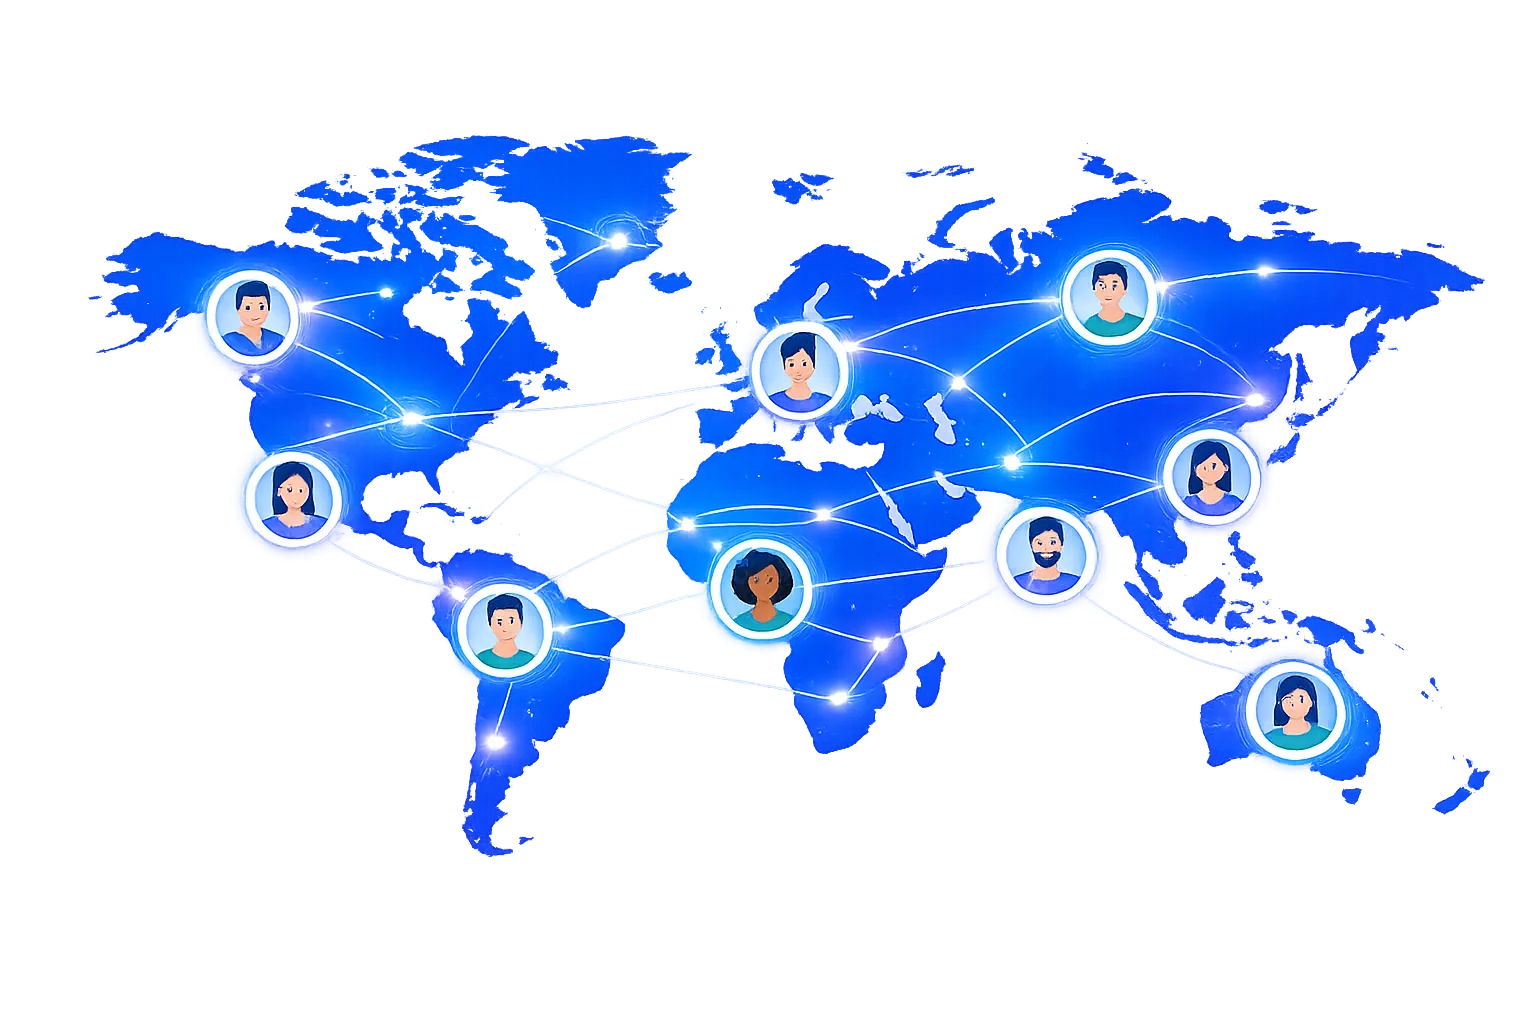
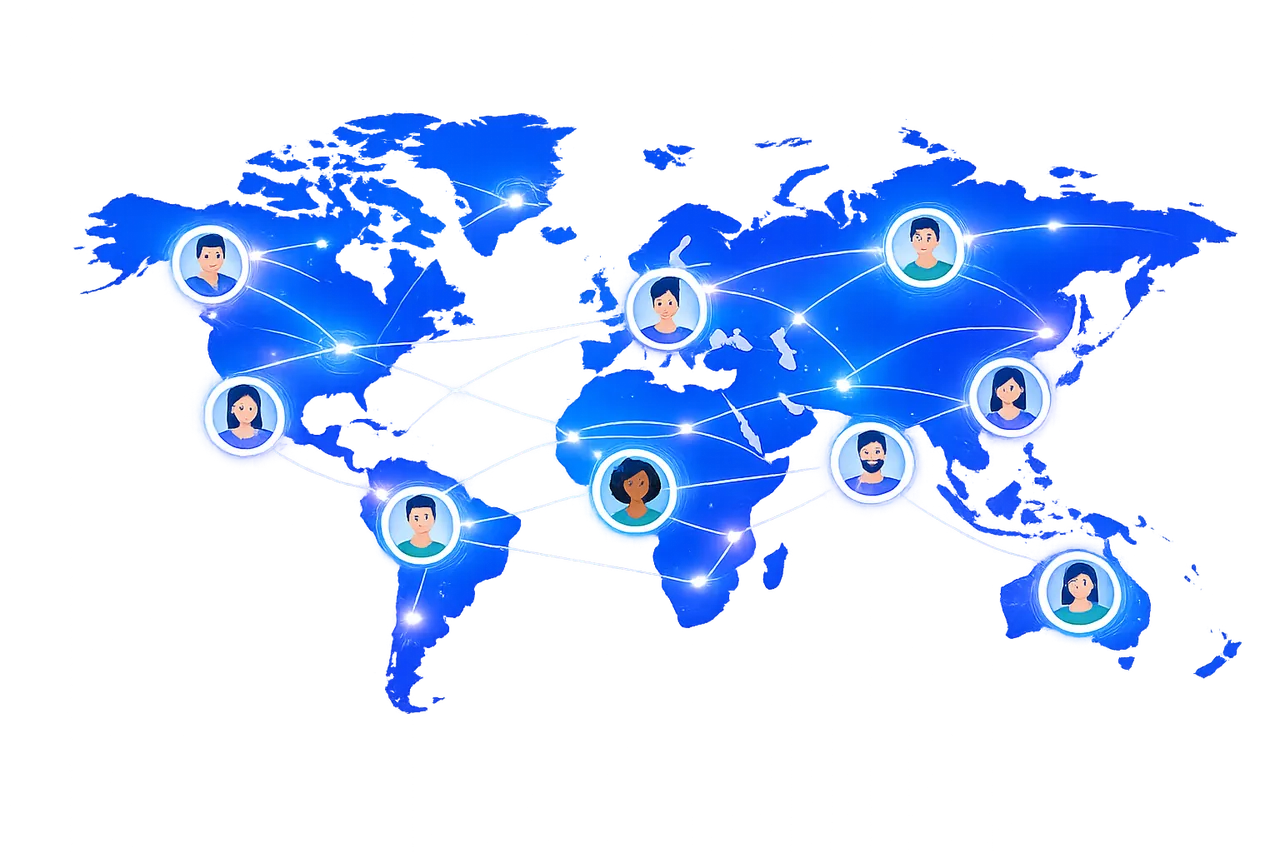
Thank-you: drop nav subtitle; re-optimize funnel WebP (1280w, RGBA) and image hints
- Remove thank-you subtitle; tighten next/image sizes + quality=82.
- Re-encode map/AI WebPs at max 1280px with alpha; refresh ladder/struggle WebPs.

Made-with: Cursor

diff --git a/src/components/FunnelArt.tsx b/src/components/FunnelArt.tsx
@@ -2,21 +2,21 @@
 
 import Image from "next/image";
 
-/** Matches `public/worldmap_sumaryOLA.webp` (1536×1024). */
-const MAP_W = 1536;
-const MAP_H = 1024;
+/** Matches `public/worldmap_sumaryOLA.webp` (max 1280px wide, RGBA). */
+const MAP_W = 1280;
+const MAP_H = 853;
 
 /** `public/ladder-summary2.webp` */
 const LADDER_W = 1280;
 const LADDER_H = 853;
 
-/** `public/ai_coach_summary.webp` */
-const AI_COACH_SUMMARY_W = 1536;
-const AI_COACH_SUMMARY_H = 1024;
+/** `public/ai_coach_summary.webp` (max 1280px wide, RGBA). */
+const AI_COACH_SUMMARY_W = 1280;
+const AI_COACH_SUMMARY_H = 853;
 
-/** `public/ai_coach_vs_traditional1.webp` */
-const AI_COACH_VS_TRADITIONAL_W = 1536;
-const AI_COACH_VS_TRADITIONAL_H = 1024;
+/** `public/ai_coach_vs_traditional1.webp` (max 1280px wide, RGBA). */
+const AI_COACH_VS_TRADITIONAL_W = 1280;
+const AI_COACH_VS_TRADITIONAL_H = 853;
 
 /** `public/struggle-summary3.webp` (portrait) */
 const STRUGGLE_SUMMARY_W = 853;
@@ -35,8 +35,9 @@ export function WorldMapIllustration() {
         width={MAP_W}
         height={MAP_H}
         className="h-auto w-full rounded-2xl"
-        sizes="(max-width: 640px) 100vw, 672px"
+        sizes="(max-width: 640px) 100vw, (max-width: 1280px) 90vw, 672px"
         priority
+        quality={82}
       />
     </div>
   );
@@ -55,7 +56,8 @@ export function LadderIllustration() {
         width={LADDER_W}
         height={LADDER_H}
         className="h-auto w-full rounded-2xl"
-        sizes="(max-width: 640px) 100vw, 672px"
+        sizes="(max-width: 640px) 100vw, (max-width: 1280px) 90vw, 672px"
+        quality={82}
       />
     </div>
   );
@@ -74,7 +76,8 @@ export function AiCoachSummaryIllustration() {
         width={AI_COACH_SUMMARY_W}
         height={AI_COACH_SUMMARY_H}
         className="h-auto w-full rounded-2xl"
-        sizes="(max-width: 640px) 100vw, 672px"
+        sizes="(max-width: 640px) 100vw, (max-width: 1280px) 90vw, 672px"
+        quality={82}
       />
     </div>
   );
@@ -93,7 +96,8 @@ export function AiCoachVsTraditionalIllustration() {
         width={AI_COACH_VS_TRADITIONAL_W}
         height={AI_COACH_VS_TRADITIONAL_H}
         className="h-auto w-full rounded-2xl"
-        sizes="(max-width: 640px) 100vw, 672px"
+        sizes="(max-width: 640px) 100vw, (max-width: 1280px) 90vw, 672px"
+        quality={82}
       />
     </div>
   );
@@ -115,7 +119,8 @@ export function StruggleSummaryIllustration() {
         alt="Illustration about learning method and progress"
         fill
         className="object-contain object-top [clip-path:inset(10px_0_0_0)]"
-        sizes="(max-width: 640px) 100vw, 512px"
+        sizes="(max-width: 640px) 100vw, (max-width: 1024px) 50vw, 512px"
+        quality={82}
       />
     </div>
   );

diff --git a/src/app/OnboardingWizard.tsx b/src/app/OnboardingWizard.tsx
@@ -760,7 +760,7 @@ export function OnboardingWizard() {
           </p>
         );
       case "thankYouNav":
-        return "Click button to return to that question";
+        return undefined;
       default:
         return undefined;
     }